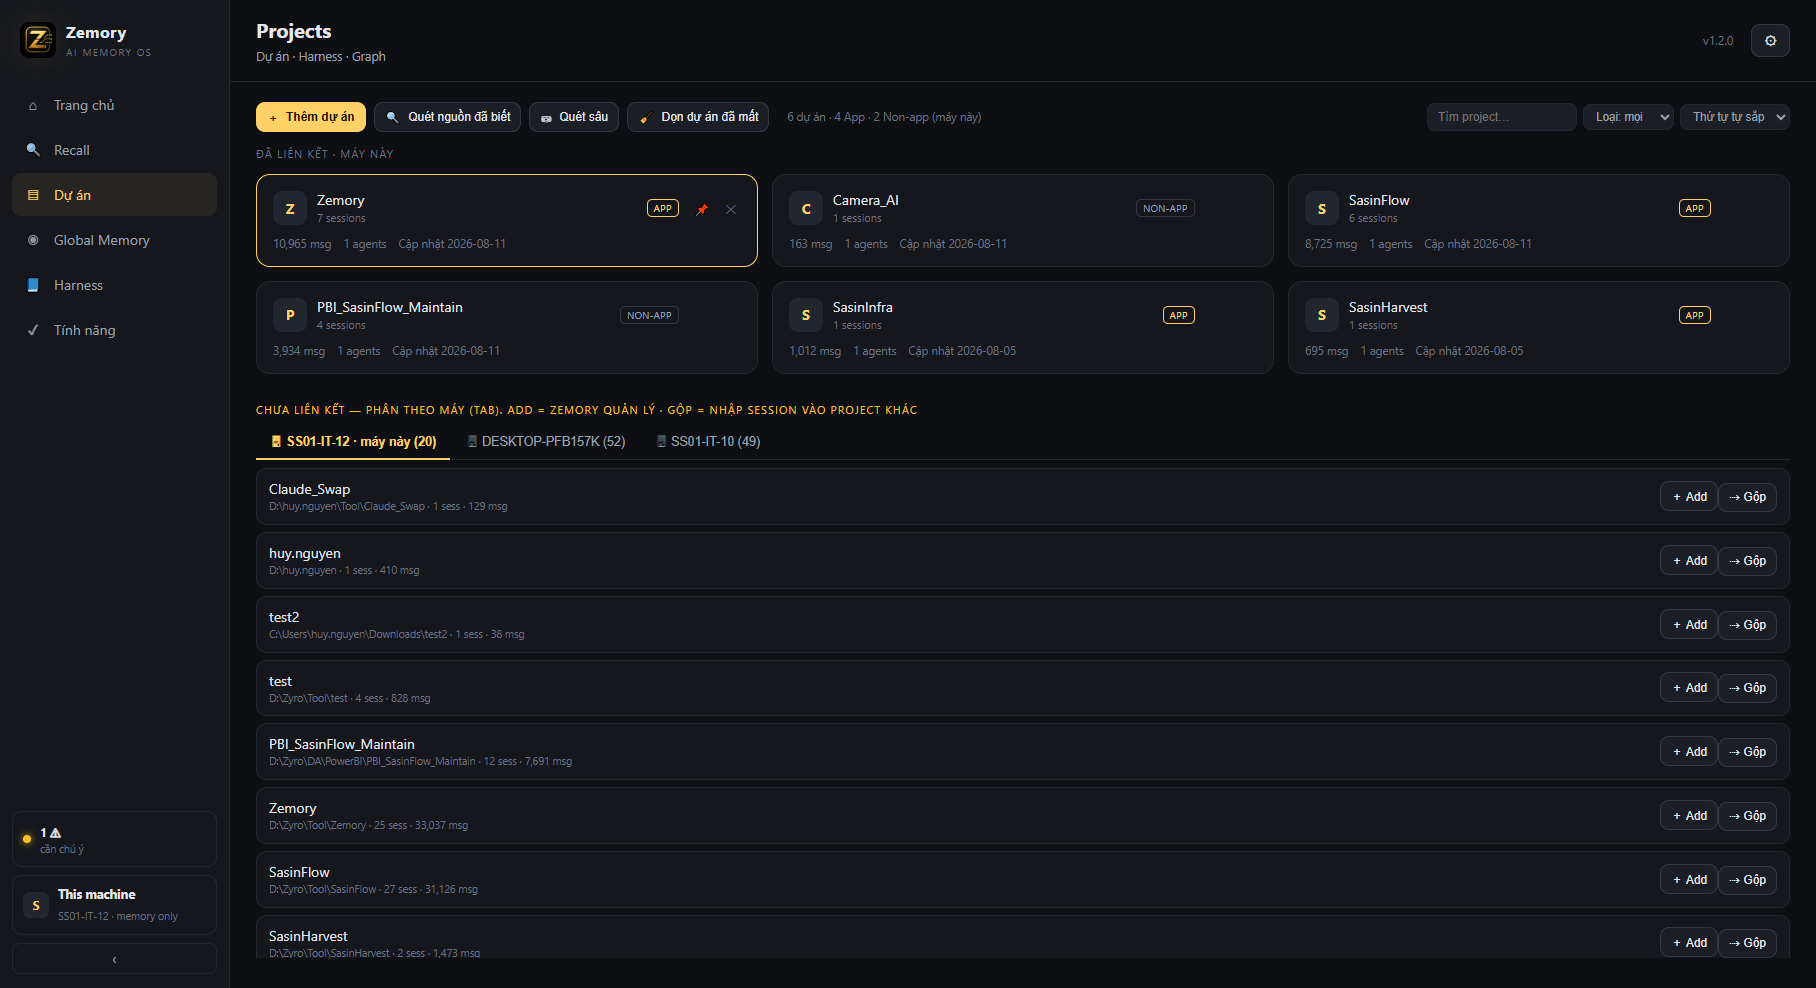
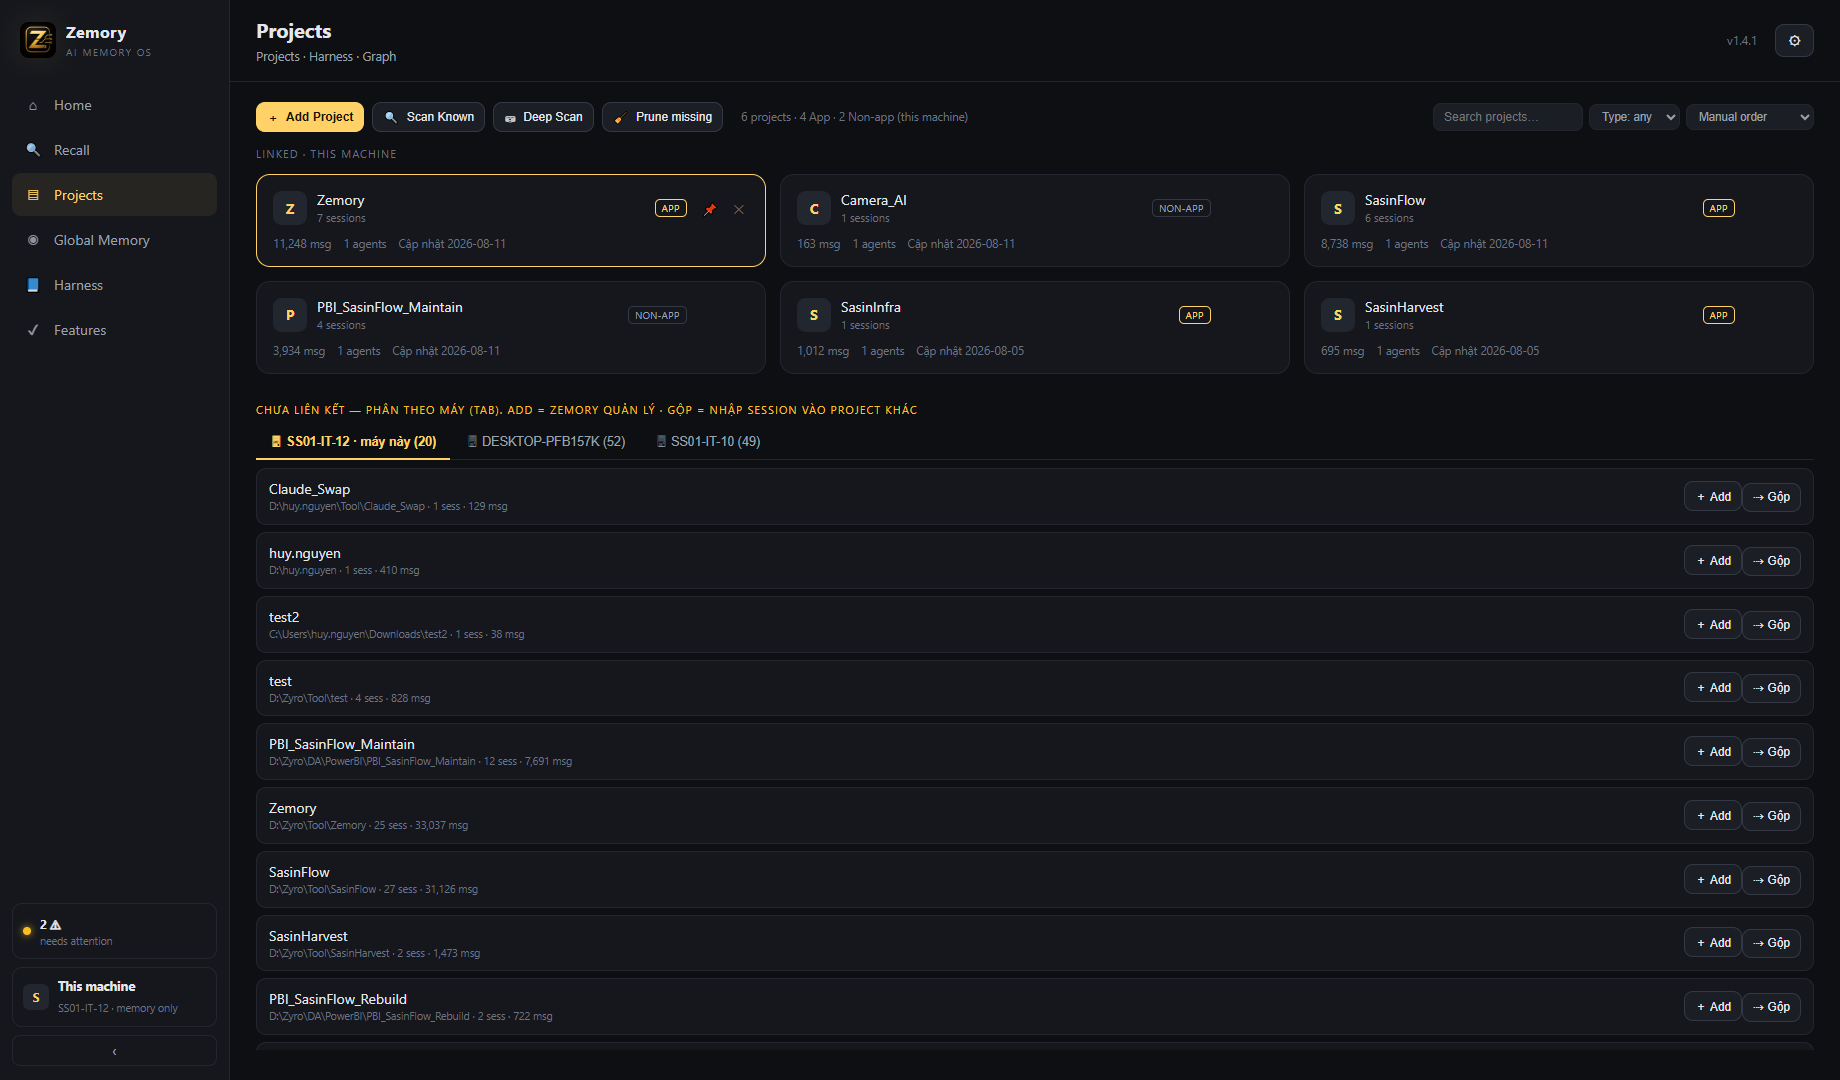
noi not duong CUU HO (vector) + README het tieng Viet + anh UI do MAY chup
- memory salvage nay cho CA chi muc vector: doc so chieu qua vectorDimsOf() moi (o salvage.ts,
  tang lenh khong mo SQLite thang) roi goi salvageVectors, in copied/lost, fail-open khi kho
  nguon chua tung nhung. Truoc do lenh chi goi ve dau roi dung => chap nhan dot lai ~55 gio may.
  Cong salvage-vectors.test.mjs 3/3, dot bien chung minh do duoc.
- Hai lan fixture do truoc khi xanh, ca hai deu dang giu: vec0 doi safeIntegers+BigInt (dung bay
  so 3 ma chu thich trong salvage.ts da ghi), va fixture PHAI dung bang openMemory chu khong tu
  bia CREATE TABLE (nguon lech ten cot thi salvageMemory chep sang dich la gay).
- README: bo het tieng Viet, sua tan goc - doi UI sang lang=en, CHUP LAI 7 man, roi tra lang ve
  vi. Nhan lay dung chu app hien thi.
- shoot-ui.mjs: cho theo DIEU KIEN thay vi dong ho + tu choi ghi file neu chua san sang;
  Page.navigate de len trang quang ba dang nhap cua Edge; ep khung bang setDeviceMetricsOverride.
  That bai nay in ra trang dang co gi thay vi cam nin.
- Bat duoc loi san pham: bat lang=en ma nhieu chuoi van ra tieng Viet (trai 02_RULES Ngon ngu).

diff --git a/backend/src/commands/memory.ts b/backend/src/commands/memory.ts
@@ -4,7 +4,7 @@
 import { existsSync, readFileSync } from "node:fs";
 import { createInterface } from "node:readline/promises";
 import { basename, dirname, join, resolve } from "node:path";
-import { rebuildFts, reconcileCounts, reopenIngest, salvageMemory, verifyMemory } from "../memory/salvage.js";
+import { rebuildFts, reconcileCounts, reopenIngest, salvageMemory, salvageVectors, vectorDimsOf, verifyMemory } from "../memory/salvage.js";
 import { currentMemoryDb } from "../memory/db.js";
 import { scanHiddenChars } from "../memory/redact.js";
 import { currentProjectRoot } from "../core/config.js";
@@ -762,6 +762,31 @@ async function cmdMemoryInner(args: string[]): Promise<void> {
     console.log(`  tổng: chép ${r.copied} dòng · mất ${r.lost}`);
     console.log("  dựng lại chỉ mục FTS…");
     for (const f of rebuildFts(out)) if (!f.ok) console.log(`  ✗ ${f.table}`);
+
+    // CỨU LUÔN CHỈ MỤC VECTOR — nửa sau của đường cứu hộ, trước 2026-08-11 KHÔNG AI GỌI.
+    //
+    // `salvageMemory` cố ý chỉ chép bảng NGUỒN (chú thích của chính nó: "KHÔNG dựng lại
+    // FTS/vector ở đây — gọi …"), còn `salvageVectors` được tách riêng vì nó cần extension
+    // vec0. Nhưng lệnh này chỉ gọi vế đầu rồi dừng, và câu dặn cuối bảo người dùng đi
+    // `memory embed --all` — tức chấp nhận đốt lại TOÀN BỘ công nhúng. Đo 2026-08-11: chỗ đó
+    // là **~55 giờ máy** (43 giờ đợt 768 chiều + 12–16 giờ lớp tool). FTS dựng lại rẻ nên
+    // dựng; vector thì chép được bao nhiêu hay bấy nhiêu — vẫn hơn dựng lại từ đầu.
+    //
+    // Fail-open (HP điều 9): kho nguồn chưa từng có vector, hoặc vùng hỏng nuốt luôn
+    // `vec_config` ⇒ BỎ QUA và nói ra, tuyệt đối không làm hỏng lượt cứu hộ đang chạy.
+    const dims = vectorDimsOf(src);
+    if (dims > 0) {
+      console.log(`  cứu chỉ mục vector (${dims} chiều)…`);
+      try {
+        const v = salvageVectors(src, out, dims);
+        console.log(`  ${v.lost ? "⚠" : "✓"} vector: chép ${v.copied}${v.lost ? ` · MẤT ${v.lost}` : ""}`);
+      } catch (e) {
+        console.log(`  ⚠ không cứu được vector (${(e as Error).message}) — kho vẫn cứu xong, chạy \`memory embed --all\` để dựng lại.`);
+      }
+    } else {
+      console.log("  · bỏ qua vector: kho nguồn không có `vec_config` (chưa từng nhúng, hoặc vùng hỏng nuốt mất).");
+    }
+
     console.log("  → bước tiếp: kiểm `PRAGMA integrity_check`, đổi chỗ, rồi `zemory reindex`");
     console.log("    + `memory digest --all` + `memory embed --all` để vá phần vector còn thiếu.");
     return;

diff --git a/backend/src/memory/salvage.ts b/backend/src/memory/salvage.ts
@@ -137,6 +137,28 @@ export function salvageMemory(srcPath: string, dstPath: string): SalvageReport {
  * 120.000 vector trong 50 giây rồi 7 phút không ghi thêm byte nào. Nên có `maxFailPages`:
  * chạm ngưỡng thì DỪNG và trả về `copied`; phần thiếu để `memory embed --all` dựng lại.
  */
+/**
+ * Số chiều vector kho nguồn ĐANG dùng, đọc từ `vec_config`. Trả 0 khi không đọc được —
+ * kho chưa từng nhúng, hoặc vùng hỏng nuốt luôn bảng cấu hình.
+ *
+ * Ở đây thay vì ở tầng lệnh vì nó là chi tiết của lớp vector (và tầng lệnh không nên mở
+ * SQLite thẳng). Trả 0 thay vì ném lỗi: đây là đường CỨU HỘ — không được để một phép dò
+ * phụ làm hỏng lượt cứu chính (HP điều 9).
+ */
+export function vectorDimsOf(dbPath: string): number {
+  try {
+    const db = new Database(dbPath, { readonly: true, fileMustExist: true });
+    try {
+      const row = db.prepare("SELECT dims FROM vec_config LIMIT 1").get() as { dims?: number } | undefined;
+      return Number(row?.dims ?? 0) || 0;
+    } finally {
+      db.close();
+    }
+  } catch {
+    return 0;
+  }
+}
+
 export function salvageVectors(
   srcPath: string,
   dstPath: string,

diff --git a/README.md b/README.md
@@ -28,9 +28,9 @@ across tools, projects, and machines, offline.
 
 | | | |
 |:--:|:--:|:--:|
-| [<img src="docs_visual/ui/01-home.png" width="270">](#1--trang-chủ-home--the-at-a-glance-row)<br>**1 · Trang chủ** — six tiles, recent projects & sessions | [<img src="docs_visual/ui/02-recall.png" width="270">](#2--recall--find-the-session-then-read-it)<br>**2 · Recall** — filter, pick a session, read the thread | [<img src="docs_visual/ui/03-projects.png" width="270">](#3--dự-án-projects--linked-vs-discovered)<br>**3 · Dự án** — linked cards vs discovered-by-machine |
-| [<img src="docs_visual/ui/04-global-memory-sync.png" width="270">](#4--global-memory--the-numbers-and-the-two-ways-data-moves)<br>**4 · Global Memory** — sources, automation, Drive sync | [<img src="docs_visual/ui/05-harness-docs.png" width="270">](#5--harness--the-shared-standard-readable-in-the-app)<br>**5 · Harness ›Docs** — the shared standard, App \| Non-app | [<img src="docs_visual/ui/06-harness-structure.png" width="270">](#5--harness--the-shared-standard-readable-in-the-app)<br>**6 · Harness ›Structure** — slot tree + routing table |
-| [<img src="docs_visual/ui/07-features.png" width="270">](#6--tính-năng-features--what-this-machine-can-actually-do)<br>**7 · Tính năng** — 14 capabilities, each re-checkable | | |
+| [<img src="docs_visual/ui/01-home.png" width="270">](#1--home--the-at-a-glance-row)<br>**1 · Home** — six tiles, recent projects & sessions | [<img src="docs_visual/ui/02-recall.png" width="270">](#2--recall--find-the-session-then-read-it)<br>**2 · Recall** — filter, pick a session, read the thread | [<img src="docs_visual/ui/03-projects.png" width="270">](#3--projects--linked-vs-discovered)<br>**3 · Projects** — linked cards vs discovered-by-machine |
+| [<img src="docs_visual/ui/04-global-memory-sync.png" width="270">](#4--global-memory--the-numbers-and-the-two-ways-data-moves)<br>**4 · Global Memory** — sources, automation, Drive sync | [<img src="docs_visual/ui/05-harness-docs.png" width="270">](#5--harness--the-shared-standard-readable-in-the-app)<br>**5 · Harness › Docs** — the shared standard, App \| Non-app | [<img src="docs_visual/ui/06-harness-structure.png" width="270">](#5--harness--the-shared-standard-readable-in-the-app)<br>**6 · Harness › Structure** — slot tree + routing table |
+| [<img src="docs_visual/ui/07-features.png" width="270">](#6--features--what-this-machine-can-actually-do)<br>**7 · Features** — 14 capabilities, each re-checkable | | |
 
 </div>
 
@@ -170,7 +170,7 @@ place**; anywhere else links to it. Two themes (dark default · light monochrome
 i18n; every user-visible string goes through both dictionaries, with technical terms (Recall,
 Hybrid, FTS5, vector, embed, token) deliberately left untranslated.
 
-### 1 · Trang chủ (Home) — the at-a-glance row
+### 1 · Home — the at-a-glance row
 
 ![Home](docs_visual/ui/01-home.png)
 
@@ -183,8 +183,8 @@ many items need attention.
 
 ![Recall](docs_visual/ui/02-recall.png)
 
-Two sub-tabs: **Tìm kiếm** (search messages) and **Phiên** (browse sessions). Filters cover
-*has-images · time · source · agent · machine*, with the live count (`120/1,295 phiên`) so a
+Two sub-tabs: **Search** (across messages) and **Sessions** (browse whole threads). Filters cover
+*has-images · time · source · agent · machine*, with the live count (`120/1,295 sessions`) so a
 filter never silently hides everything. Pick a session on the left and the whole conversation
 opens on the right, exportable to `.md`.
 
@@ -193,29 +193,29 @@ Display rule worth knowing: prose renders **in full, exactly as chatted**, while
 taste — **52.5%** of 167,738 messages contain tool traffic, and that is what makes a transcript
 unreadable, not message length.
 
-### 3 · Dự án (Projects) — linked vs discovered
+### 3 · Projects — linked vs discovered
 
 ![Projects](docs_visual/ui/03-projects.png)
 
 Linked projects appear as cards (App / Non-app badge, sessions, messages, agents, last update)
 with **pin** and **remove** — removing only drops it from the picker; the folder, its docs and its
 memory are untouched. Below, everything zemory has *seen but not linked*, **tabbed by machine**,
-each row offering **Add** (zemory manages it) or **Gộp** (fold its sessions into another project).
+each row offering **Add** (zemory manages it) or **Merge** (fold its sessions into another project).
 That second list is why the picker stays clean: discovery is separated from adoption.
 
 ### 4 · Global Memory — the numbers, and the two ways data moves
 
 ![Global Memory — sync & backup](docs_visual/ui/04-global-memory-sync.png)
 
-Sub-tab **Bộ nhớ** holds the statistics; **Đồng bộ & Sao lưu** holds every action that moves data:
+Sub-tab **Memory** holds the statistics; **Sync & Backup** holds every action that moves data:
 
 - **Sources** — the provenance tree (Local → machine → agent, Web → platform) with live counts.
   Untick a lane to leave it out of **both** sync and recall. It is a *filter, never a delete*.
-- **Máy này** — known-source scan vs deep scan, and the four automation switches with their real
+- **This Machine** — *Scan Known* vs *Deep Scan*, and the automation switches with their real
   behaviour spelled out: realtime capture per message, the context-warning threshold, the
   background sweep, start-with-OS, auto-sync.
-- **Đồng bộ Drive** — bundle count, watermark (`Còn N tin mới chưa đẩy lên Drive`), the shared
-  folder path, and the depth selector: **Gọn (−74%)** vs **Đầy đủ (khôi phục)** vs **Kèm ảnh**.
+- **Drive Sync** — bundle count, a `pushed / total` watermark, the shared folder path, and the
+  depth selector: **Lean (−74%)** vs **Full (restore)** vs **With images**.
   Backup · Restore · Forget · Redact sit in the same column.
 
 > **The one distinction to internalise:** *lean* bundles carry only source rows
@@ -239,14 +239,14 @@ an agent reads the routing line and opens the right folder instead of grepping t
 first-class AI slots — `ai/` · `agents/` · `tools/` · `evals/` — the same standard scaffolds a CRUD
 service or an LLM agent app.
 
-### 6 · Tính năng (Features) — what this machine can actually do
+### 6 · Features — what this machine can actually do
 
 ![Features](docs_visual/ui/07-features.png)
 
-Fourteen capabilities with live status (`Sức khoẻ 11/14 OK`), grouped by concern. Click one and the
+Fourteen capabilities with live status (`Health 11/14 OK`), grouped by concern. Click one and the
 right pane explains **what it is · how it works · the details that bite**, in plain language. This
 screen exists because a feature list that cannot be *checked* is a promise, not a status — each row
-has a **Kiểm** button that re-measures instead of repeating what a config file claims.
+has a **Check** button that re-measures instead of repeating what a config file claims.
 
 Any region with two or more adjacent panels has a **drag-to-resize** seam; sizes persist across
 sessions. The markdown docs remain the **source** — edit the `.md` directly (file wins); the DB is

diff --git a/docs/agent/06_CHANGES.md b/docs/agent/06_CHANGES.md
@@ -5,6 +5,37 @@
 
 ---
 
+## [2026-08-12] — Nối nốt đường CỨU HỘ (vector) · README hết tiếng Việt · ảnh UI do MÁY chụp
+
+**Vá lỗ audit mặt ③: `memory salvage` nay chở CẢ chỉ mục vector.** Trước đó lệnh chỉ gọi
+`salvageMemory` rồi dừng, và câu dặn cuối bảo người dùng đi `memory embed --all` — tức chấp nhận
+đốt lại **~55 giờ máy**. Nay đọc số chiều qua `vectorDimsOf()` (mới, ở `salvage.ts` — tầng lệnh
+không mở SQLite thẳng) rồi gọi `salvageVectors`, in `copied/lost`, **fail-open** khi kho nguồn chưa
+từng nhúng. Cổng `salvage-vectors.test.mjs` **3/3**, đột biến chứng minh đỏ được (bỏ lời gọi ⇒ 1 đỏ).
+*Hai lần fixture đỏ trước khi xanh, cả hai đều là bài học đáng giữ:* vec0 đòi `safeIntegers`+BigInt
+(đúng bẫy ③ mà chú thích trong `salvage.ts` đã ghi — chú thích chính xác), và fixture **phải dựng
+bằng `openMemory`** chứ không tự bịa `CREATE TABLE`: nguồn lệch tên cột thì `salvageMemory` chép
+sang đích là gãy, và test hoá ra đang soi một cái không tồn tại.
+
+**README: bỏ hết tiếng Việt tôi chèn — và sửa tận gốc, không dịch tay.** Đổi UI sang `lang=en`,
+**chụp lại 7 màn**, rồi trả `lang` về `vi`; nhãn trong README nay lấy đúng chữ app hiển thị
+(`Search`/`Sessions` · `Memory`/`Sync & Backup` · `This Machine` · `Drive Sync` ·
+`Lean (−74%)`/`Full (restore)`/`With images` · `Health 11/14 OK` · `Check`).
+
+**Ba lần chụp hỏng trước khi được, mỗi lần lộ một lỗi thật** — nên `shoot-ui.mjs` nay: ① **chờ theo
+ĐIỀU KIỆN** (đợi số liệu thật hiện) thay vì chờ theo đồng hồ, không đạt thì **từ chối ghi file** ·
+② `Page.navigate` đè lên **trang quảng bá đăng nhập của Edge** (thứ chiếm tab đầu, khiến chờ 150
+giây vẫn trượt — không phải app chậm) · ③ ép khung bằng `Emulation.setDeviceMetricsOverride` vì
+`--window-size` không ăn trong headless (ảnh từng ra 500×450). Thất bại nay **in ra trang đang có
+gì** thay vì câm nín.
+
+**Phép chụp bắt được một lỗi sản phẩm:** bật `lang=en` mà nhiều chuỗi vẫn ra tiếng Việt (`chưa
+sync` · `7 giờ trước` · `đã link · 9 bundle` · `Đã đồng bộ đủ lên Drive`) — trái `02_RULES §Ngôn
+ngữ`. Đã ghi `05_TODO` kèm cách bắt lại rẻ nhất: chụp ở `lang=en` rồi soi ảnh.
+
+**Số đo cuối ngày:** lớp tool **52.169/52.177 = 100%** · kho 238.495 tin · `quick_check ok` ·
+Drive **238.495/238.495 đã đẩy**, 9 bundle.
+
 ## [2026-08-11f] — Mặt ① mở được: gate chưa chạy từ ~05/08, và nó đang ĐỎ · lớp `tool_use` 0 → 21%
 
 > 🔄 **Supersede:** thay [2026-08-11e] — "mặt ① chưa đo được, cần user tắt hook" — **agent TỰ tắt

diff --git a/docs/agent/05_TODO.md b/docs/agent/05_TODO.md
@@ -35,6 +35,13 @@
 - [ ] **(③) 20 export không phải kiểu khác** chỉ dùng trong chính file mình ⇒ thừa từ khoá `export`
   (thu hẹp tầm nhìn là dọn dẹp, không gấp). *150/171 mục còn lại là `interface`/`type` — bề mặt
   KIỂU, KHÔNG phải rác; đừng "dọn".*
+- [ ] **i18n HỤT: bật `lang=en` mà nhiều chuỗi vẫn ra tiếng Việt** (đo 2026-08-12 khi chụp ảnh
+  README bằng UI tiếng Anh). Nav/panel/nút đã dịch, nhưng còn lọt ít nhất: ô **Last Sync** hiện
+  `chưa sync` · thời gian tương đối `7 giờ trước` · `39 phút trước` · `✓ đã link · 9 bundle` ·
+  dòng trạng thái Drive `Đã đồng bộ đủ lên Drive` · `kiểm lần cuối 41 giờ trước` · `NOT linked ·
+  store đã biết nhưng không còn trên đĩa`. Trái luật `02_RULES §Ngôn ngữ` (*"0 chuỗi hardcode,
+  mọi chuỗi người-dùng-thấy đi qua i18n, có cả 2 bản"*). **Cách bắt lại rẻ:** chụp UI ở `lang=en`
+  rồi soi ảnh — chính lượt chụp này bắt được, không cần dựng cổng riêng.
 - [ ] **(⑦) `.git/objects/pack` có 10 file `.idx` KHÔNG có `.pack` tương ứng.** Dấu hiệu một lần
   `gc`/`filter-branch` bị ngắt giữa chừng (khớp đợt `filter-branch` gỡ model weight 05/08). Không
   mất dữ liệu — `git count-objects` vẫn đọc được 5.138 object — nhưng là rác và làm mọi lệnh đếm
